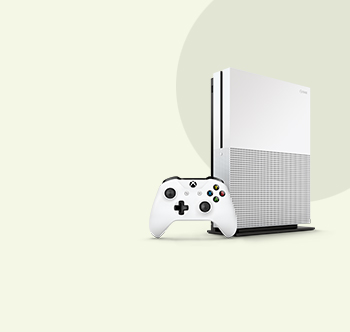
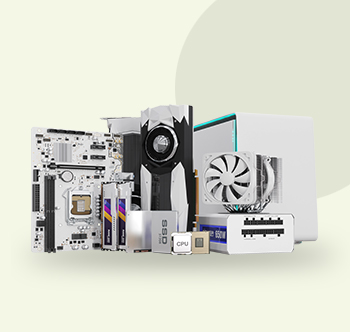
direct-ordr-cmpltd

diff --git a/gamescorner.ae-main/assets/js/shopbyCategory.js b/gamescorner.ae-main/assets/js/shopbyCategory.js
@@ -1,99 +1,158 @@
-// document.addEventListener('DOMContentLoaded', () => {
-//     const shopButtons = document.querySelectorAll('.shop-now');
-
-//     shopButtons.forEach(button => {
-//         button.addEventListener('click', async (event) => {
-//             event.preventDefault();
-
-//             const categoryElement = button.closest('.promotional-banner-item')
-//                 .querySelector('.promotional-banner-item__title');
-//             const categoryName = categoryElement.textContent.trim();
-
-//             try {
-//                 const response = await fetch('http://localhost:5002/api/category');
-
-//                 if (!response.ok) {
-//                     throw new Error(`HTTP error! status: ${response.status}`);
-//                 }
-
-//                 const data = await response.json();
-//                 const categories = data.categories;
-
-//                 const category = categories.find(
-//                     cat => cat.parent_category.toLowerCase() === categoryName.toLowerCase()
-//                 );
-
-//                 if (category) {
-//                     // Navigate to the category page
-//                     window.location.href = `/shop.html?category=${category._id}`;
-//                 } else {
-//                     console.error('Category not found');
-//                     // Fallback to default shop page
-//                     window.location.href = '/shop.html';
-//                 }
-//             } catch (error) {
-//                 console.error('Error fetching category data:', error);
-//                 alert('Failed to load category data. Please try again later.');
-//             }
-//         });
-//     });
-// });
-
 document.addEventListener('DOMContentLoaded', () => {
     const shopButtons = document.querySelectorAll('.shop-now');
+    
+    // Cache for category data to avoid multiple API calls
+    let categoryCache = null;
+    
+    // Function to fetch and cache categories
+    async function fetchCategories() {
+        if (categoryCache) {
+            return categoryCache;
+        }
 
+        try {
+            const response = await fetch('http://localhost:5002/api/category');
+            if (!response.ok) {
+                throw new Error(`HTTP error! status: ${response.status}`);
+            }
+
+            const data = await response.json();
+            categoryCache = data.categories;
+            return categoryCache;
+        } catch (error) {
+            console.error('Error fetching categories:', error);
+            throw error;
+        }
+    }
+
+    // Function to find category by name
+    function findCategory(categories, searchName) {
+        // Normalize the search name
+        const normalizedSearch = searchName.toLowerCase().trim();
+
+        // First try to find as parent category
+        let category = categories.find(cat => 
+            cat.parent_category.toLowerCase().trim() === normalizedSearch
+        );
+
+        // If not found as parent, search in subcategories
+        if (!category) {
+            category = categories.find(cat => 
+                cat.name.some(subCat => 
+                    subCat.value.toLowerCase().trim() === normalizedSearch
+                )
+            );
+        }
+
+        return category;
+    }
+
+    // Function to find subcategory by name
+    function findSubcategory(category, subcategoryName) {
+        if (!category || !category.name) return null;
+        
+        return category.name.find(subCat => 
+            subCat.value.toLowerCase().trim() === subcategoryName.toLowerCase().trim()
+        );
+    }
+
+    // Function to handle navigation
+    function navigateToShop(categoryId, subcategoryId = null) {
+        const baseUrl = '/shop.html';
+        const params = new URLSearchParams();
+        
+        if (categoryId) {
+            params.append('category', categoryId);
+        }
+        
+        if (subcategoryId) {
+            params.append('subcategory', subcategoryId);
+        }
+
+        const url = params.toString() 
+            ? `${baseUrl}?${params.toString()}`
+            : baseUrl;
+
+        window.location.href = url;
+    }
+
+    // Handle loading state
+    function setLoadingState(button, isLoading) {
+        if (isLoading) {
+            button.classList.add('loading');
+            button.disabled = true;
+        } else {
+            button.classList.remove('loading');
+            button.disabled = false;
+        }
+    }
+
+    // Setup click handlers for shop buttons
     shopButtons.forEach(button => {
         button.addEventListener('click', async (event) => {
             event.preventDefault();
-
-            const categoryElement = button.closest('.promotional-banner-item')
-                .querySelector('.promotional-banner-item__title');
-            const categoryName = categoryElement.textContent.trim();
+            setLoadingState(button, true);
 
             try {
-                const response = await fetch('http://localhost:5002/api/category');
+                // Get category name from data attribute or title
+                const categoryElement = button.closest('.promotional-banner-item')
+                    .querySelector('.promotional-banner-item__title');
+                const categoryName = categoryElement.textContent.trim();
+                const dataCategory = button.dataset.category;
 
-                if (!response.ok) {
-                    throw new Error(`HTTP error! status: ${response.status}`);
+                // Fetch categories
+                const categories = await fetchCategories();
+
+                // Try to find the category
+                let category;
+                if (dataCategory) {
+                    // First try using data-category attribute
+                    category = findCategory(categories, dataCategory);
                 }
-
-                const data = await response.json();
-                const categories = data.categories;
-
-                // First check if it's a parent category
-                let category = categories.find(
-                    cat => cat.parent_category.toLowerCase().trim() === categoryName.toLowerCase()
-                );
-
-                // If not found as parent category, check subcategories
                 if (!category) {
-                    category = categories.find(cat => 
-                        cat.name.some(subCat => 
-                            subCat.value.toLowerCase() === categoryName.toLowerCase()
-                        )
-                    );
+                    // Fall back to title text if data-category didn't match
+                    category = findCategory(categories, categoryName);
                 }
 
                 if (category) {
-                    // If it's a gaming chair, find the specific subcategory ID
-                    if (categoryName.toLowerCase() === 'gaming chair') {
-                        const gamingChairSubcategory = category.name.find(
-                            subCat => subCat.value.toLowerCase() === 'gaming chairs'
-                        );
-                        if (gamingChairSubcategory) {
-                            window.location.href = `/shop.html?category=${category._id}&subcategory=${gamingChairSubcategory._id}`;
+                    // Special handling for specific categories
+                    if (categoryName.toLowerCase().includes('gaming chair')) {
+                        const subcategory = findSubcategory(category, 'gaming chairs');
+                        if (subcategory) {
+                            navigateToShop(category._id, subcategory._id);
                             return;
                         }
                     }
-                    // For other categories, use the parent category ID
-                    window.location.href = `/shop.html?category=${category._id}`;
+
+                    // For monitors category
+                    if (categoryName.toLowerCase().includes('monitor')) {
+                        const subcategory = findSubcategory(category, 'monitors');
+                        if (subcategory) {
+                            navigateToShop(category._id, subcategory._id);
+                            return;
+                        }
+                    }
+
+                    // Default navigation with just category ID
+                    navigateToShop(category._id);
                 } else {
-                    console.error('Category not found');
-                    window.location.href = '/shop.html';
+                    console.warn(`Category not found for: ${categoryName}`);
+                    navigateToShop(); // Navigate to shop without parameters
                 }
             } catch (error) {
-                console.error('Error fetching category data:', error);
-                alert('Failed to load category data. Please try again later.');
+                console.error('Error processing category navigation:', error);
+                // Show user-friendly error message
+                const errorMessage = document.createElement('div');
+                errorMessage.className = 'error-message text-danger mt-2';
+                errorMessage.textContent = 'Unable to load category. Please try again later.';
+                button.parentNode.appendChild(errorMessage);
+                
+                // Remove error message after 3 seconds
+                setTimeout(() => {
+                    errorMessage.remove();
+                }, 3000);
+            } finally {
+                setLoadingState(button, false);
             }
         });
     });

diff --git a/gamescorner.ae-main/index.html b/gamescorner.ae-main/index.html
@@ -425,9 +425,9 @@
               class="position-absolute inset-block-start-0 inset-inline-start-0 w-100 h-100 object-fit-cover z-n1" />
             <div class="promotional-banner-item__content">
               <h6 class="promotional-banner-item__title text-32">
-                Monitors <br /><br />
+                PC Parts<br /><br />
               </h6>
-              <a href="shop.html" class="btn shop-now btn btn-main d-inline-flex align-items-center rounded-pill gap-8 mt-24" data-category="monitors">
+              <a href="shop.html" class="btn shop-now btn btn-main d-inline-flex align-items-center rounded-pill gap-8 mt-24" data-category="pc-parts">
                 Shop Now
                 <span class="icon text-xl d-flex"><i class="ph ph-arrow-right"></i></span>
               </a>
@@ -440,9 +440,9 @@
               class="position-absolute inset-block-start-0 inset-inline-start-0 w-100 h-100 object-fit-cover z-n1" />
               <div class="promotional-banner-item__content">
                 <h6 class="promotional-banner-item__title text-32">
-                  Gaming Chair<br />
+                  Monitors <br />
                 </h6>
-                <a href="shop.html" class="btn shop-now btn btn-main d-inline-flex align-items-center rounded-pill gap-8 mt-24" data-category="gaming-chairs">
+                <a href="shop.html" class="btn shop-now btn btn-main d-inline-flex align-items-center rounded-pill gap-8 mt-24" data-category="monitors">
                   Shop Now
                   <span class="icon text-xl d-flex"><i class="ph ph-arrow-right"></i></span>
                 </a>
@@ -455,9 +455,9 @@
               class="position-absolute inset-block-start-0 inset-inline-start-0 w-100 h-100 object-fit-cover z-n1" />
             <div class="promotional-banner-item__content">
               <h6 class="promotional-banner-item__title text-32">
-                PC Parts<br /><br />
+                Consoles<br /><br />
               </h6>
-              <a href="shop.html" class="btn shop-now btn btn-main d-inline-flex align-items-center rounded-pill gap-8 mt-24" data-category="pc-parts">
+              <a href="shop.html" class="btn shop-now btn btn-main d-inline-flex align-items-center rounded-pill gap-8 mt-24" data-category="Consoles">
                 Shop Now
                 <span class="icon text-xl d-flex"><i class="ph ph-arrow-right"></i></span>
               </a>
